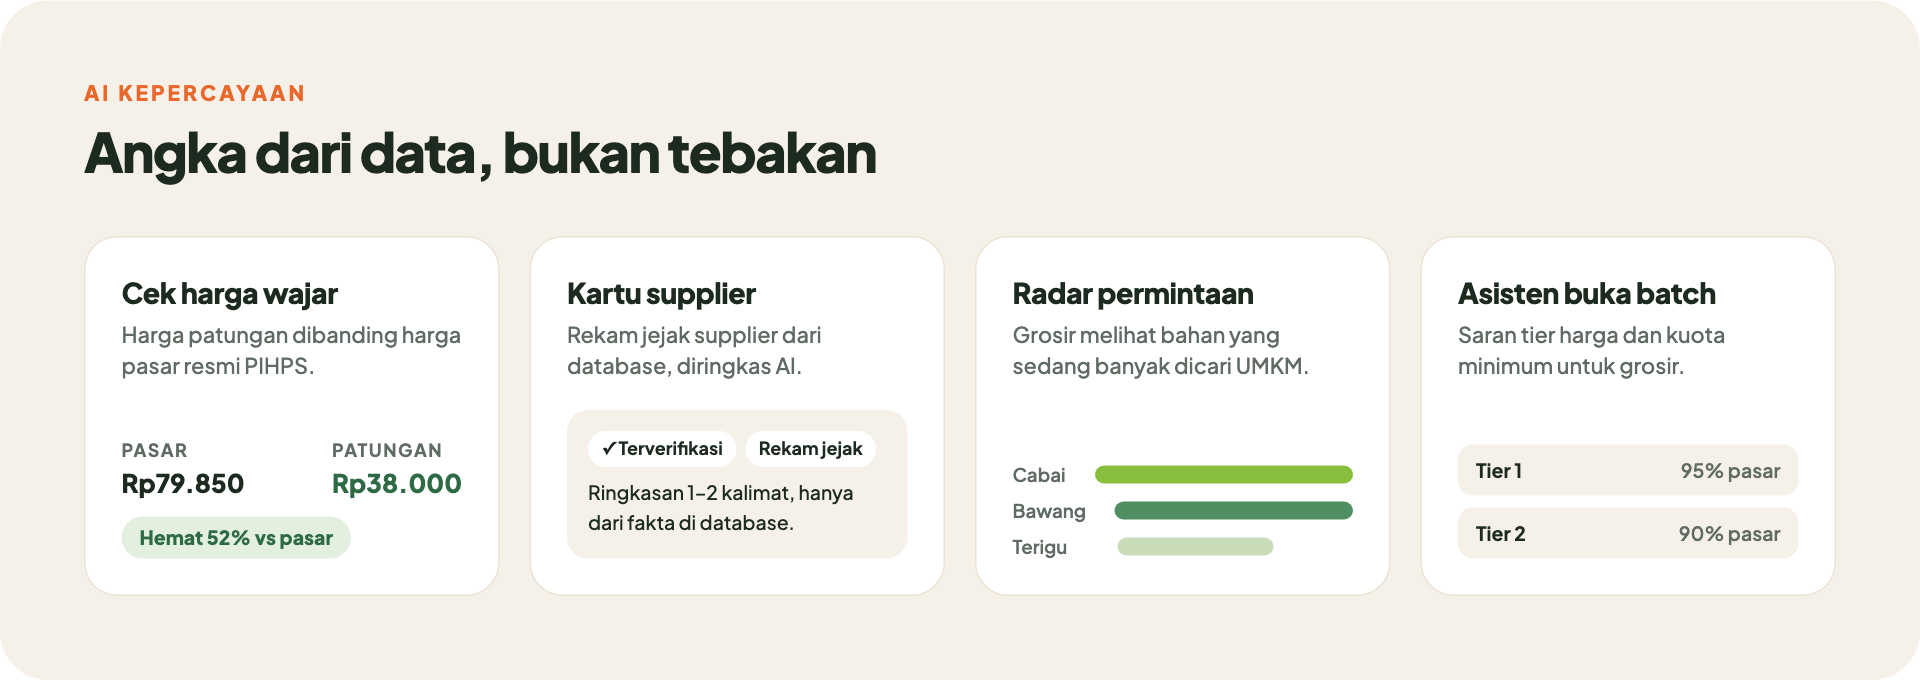
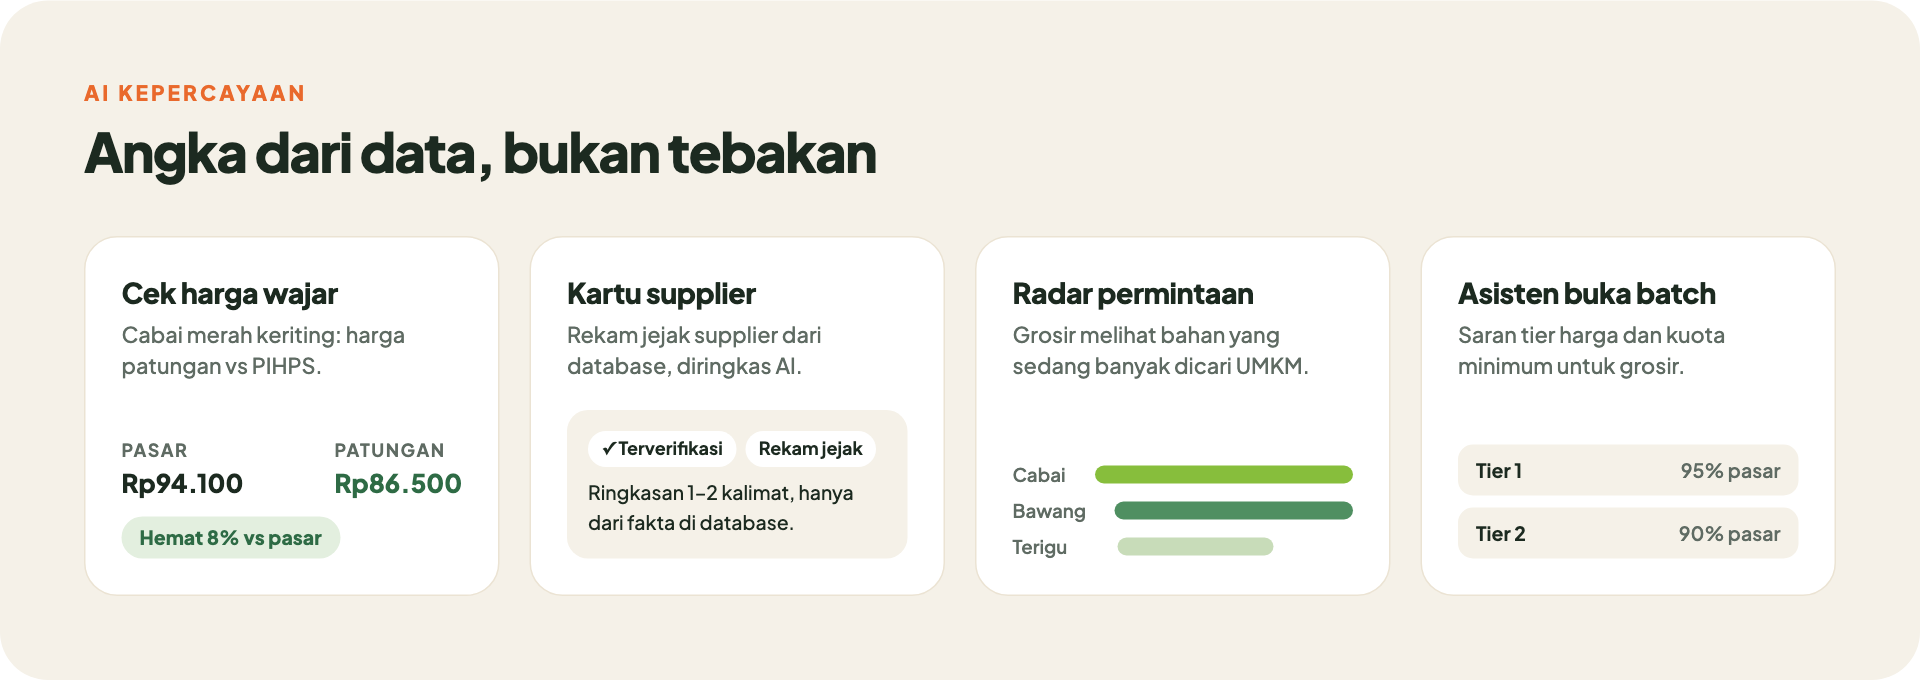
feat(demo): price demo batch tiers per commodity from BPS distribution margins

diff --git a/scripts/demo/plan.ts b/scripts/demo/plan.ts
@@ -50,6 +50,22 @@ const INTEREST_SPECS: { material: string; unit: string | null; frequency: "sekal
   { material: "cabe rawit", unit: "kg", frequency: "mingguan", quantity: 3, senders: [9, 12, 15], ageDays: [2, 6, 27] },
 ];
 
+/**
+ * Persen harga pasar untuk tier 1 dan tier 2. Patungan hanya memangkas sebagian margin
+ * perdagangan dan pengangkutan (MPP) BPS: cabai ±25%, bawang merah ±23%, daging ayam ±12%,
+ * beras/minyak/gula/telur ±9–11%. Tier 1 ±⅓ MPP, tier 2 ±½ MPP.
+ */
+const TIER_PCT: Record<string, [number, number]> = {
+  cabai_merah_keriting: [92, 88],
+  bawang_merah: [93, 89],
+  bawang_putih: [93, 89],
+  daging_ayam_ras: [96, 94],
+  telur_ayam_ras: [97, 95],
+  beras_medium: [97, 95],
+  gula_pasir: [97, 95],
+  minyak_goreng_curah: [97, 95],
+};
+
 export const DEMO_SENDER_PREFIX = "demo-seed-";
 
 /** Dibulatkan ke bawah ke Rp100. */
@@ -104,8 +120,8 @@ export function buildDemoPlan(input: PlanInput): DemoPlan {
     if (!market) throw new Error(`Harga pasar ${spec.commodity} tidak ada di prediksi.json`);
     const id = uuid();
     const tiers: PriceTier[] = [
-      { minQuantity: spec.minimum, unitPrice: priceAt(market.harga_terakhir, 97) },
-      { minQuantity: Math.round(spec.minimum * 1.5), unitPrice: priceAt(market.harga_terakhir, 92) },
+      { minQuantity: spec.minimum, unitPrice: priceAt(market.harga_terakhir, TIER_PCT[spec.commodity][0]) },
+      { minQuantity: Math.round(spec.minimum * 1.5), unitPrice: priceAt(market.harga_terakhir, TIER_PCT[spec.commodity][1]) },
     ];
     const quantities = [...spec.fillers, ...(spec.buyer ? [spec.buyer.quantity] : [])];
     const total = quantities.reduce((sum, quantity) => sum + quantity, 0);

diff --git a/scripts/demo/plan.test.ts b/scripts/demo/plan.test.ts
@@ -24,8 +24,19 @@ describe("buildDemoPlan", () => {
   it("tier di bawah harga pasar dan turun di tier kedua", () => {
     const cabai = plan.batches.find((batch) => batch.material_name === "Cabai Merah Keriting")!;
     const tiers = plan.tiers.filter((tier) => tier.patungan_id === cabai.id);
-    expect(tiers.map((tier) => tier.unit_price)).toEqual([priceAt(94100, 97), priceAt(94100, 92)]);
+    expect(tiers.map((tier) => tier.unit_price)).toEqual([priceAt(94100, 92), priceAt(94100, 88)]);
     expect(tiers[1].unit_price).toBeLessThan(tiers[0].unit_price);
+  });
+
+  it("hemat tiap batch tetap dalam batas margin distribusi: 3–12% dari harga pasar", () => {
+    for (const batch of plan.batches) {
+      const market = prediksi.prediksi.find((row) => row.komoditas.replace(/_/g, " ") === (batch.material_name as string).toLowerCase())!;
+      for (const tier of plan.tiers.filter((row) => row.patungan_id === batch.id)) {
+        const saving = Math.round((1 - tier.unit_price / market.harga_terakhir) * 100);
+        expect(saving).toBeGreaterThanOrEqual(3);
+        expect(saving).toBeLessThanOrEqual(12);
+      }
+    }
   });
 
   it("batch berhasil mencapai minimum, harga final dari tier yang tercapai, pesanan ditagih", () => {

diff --git a/README.md b/README.md
@@ -65,6 +65,21 @@ npm run demo:seed
 
 Di `/masuk`, pilih **Coba sebagai Pembeli / Grosir / Admin** untuk langsung masuk tanpa mengetik kata sandi. Data demo kembali ke keadaan awal setiap malam.
 
+Seed membuat 8 batch bahan pokok dengan harga yang mengikuti pasar Bandung. Patungan hanya memangkas sebagian margin distribusi, jadi hematnya 3–12%, bukan separuh harga:
+
+| Batch | Status | Tier 1 / tier 2 (% harga PIHPS) |
+|---|---|---|
+| Cabai Merah Keriting | Terbuka | 92% / 88% |
+| Bawang Merah | Terbuka | 93% / 89% |
+| Telur Ayam Ras | Terbuka | 97% / 95% |
+| Daging Ayam Ras | Terbuka | 96% / 94% |
+| Beras Medium | Berhasil, menunggu bayar | 97% / 95% |
+| Gula Pasir | Berhasil, siap diambil | 97% / 95% |
+| Minyak Goreng Curah | Berhasil, sudah diambil | 97% / 95% |
+| Bawang Putih | Tidak tercapai | 93% / 89% |
+
+Dasarnya margin perdagangan dan pengangkutan BPS: cabai ±25%, bawang ±23%, daging ayam ±12%, beras, minyak, gula, dan telur ±9–11%. Tier 1 memangkas sekitar sepertiga margin itu, tier 2 sekitar setengahnya.
+
 ## Isi repo
 
 | Folder | Isi |
@@ -181,7 +196,7 @@ npm run demo:seed                  # idempoten; memakai SUPABASE_SECRET_KEY
 npm run demo:seed -- --tanpa-llm   # trace simulasi tanpa memanggil LLM tahap 2
 ```
 
-Skrip ini membuat 3 akun demo, supplier "Grosir Demo" (terverifikasi, milik akun grosir demo), 8 batch bahan PIHPS di berbagai status, pesanan pembeli demo, ±36 minat permintaan dari 15 pengirim fiktif, dan ±200 trace agen dari skenario simulator. Bila tahap 2 dikonfigurasi, skenario memakai LLM dengan cache di `evals/cache/demo-seed`, jadi pesan yang berulang hanya memanggil model sekali.
+Skrip ini membuat 3 akun demo, supplier "Grosir Demo" (terverifikasi, milik akun grosir demo), 8 batch bahan PIHPS di berbagai status (persen tier per komoditas ada di `TIER_PCT`, `scripts/demo/plan.ts`), pesanan pembeli demo, ±36 minat permintaan dari 15 pengirim fiktif, dan ±200 trace agen dari skenario simulator. Bila tahap 2 dikonfigurasi, skenario memakai LLM dengan cache di `evals/cache/demo-seed`, jadi pesan yang berulang hanya memanggil model sekali.
 
 Di `/masuk`, blok "Coba sebagai juri" login ke akun demo lewat server action, jadi kata sandi tidak pernah dikirim ke browser. `reset_demo_data()` berjalan setiap malam lewat `cleanup_agent_data()`: data buatan akun demo setelah seed dihapus dan data seed dikembalikan ke keadaan awal.
 
